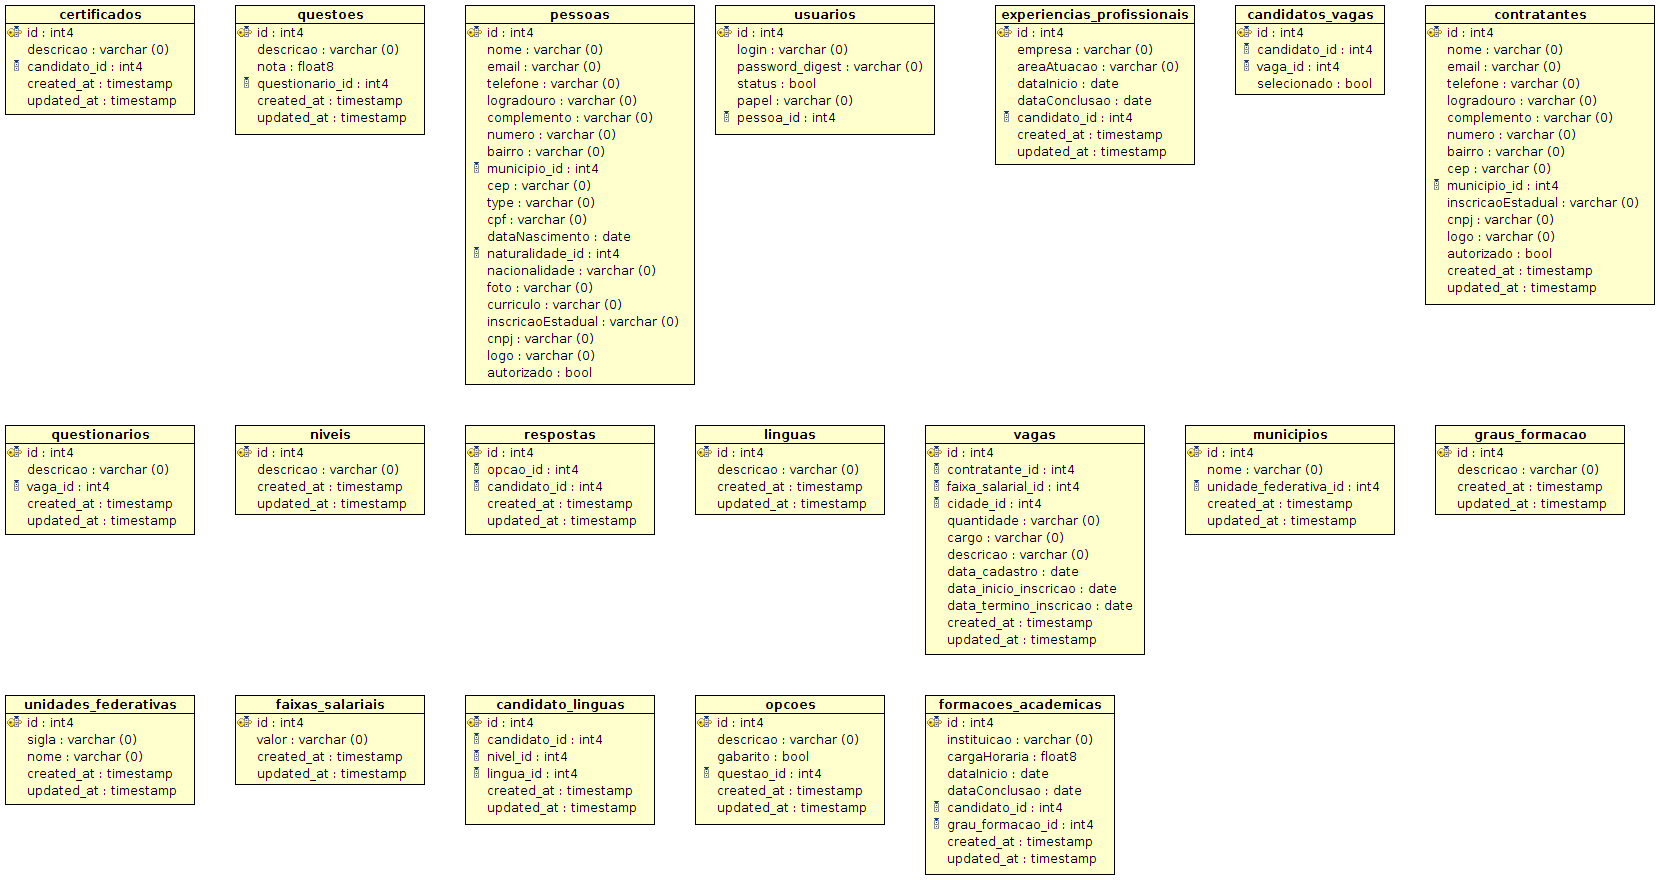
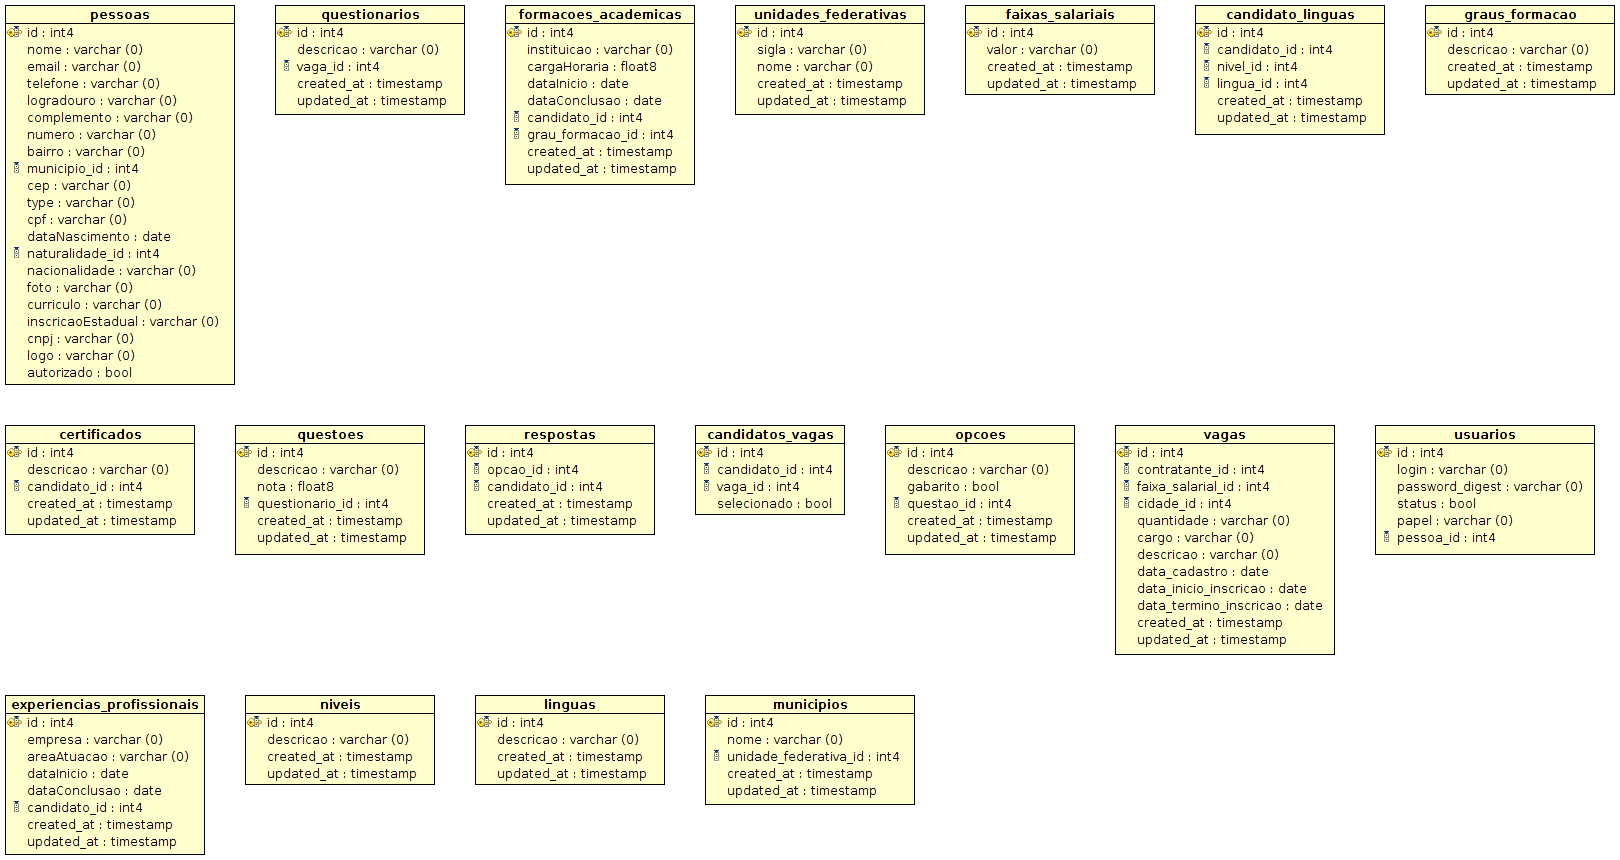
Limpar migrate

diff --git a/db/schema.rb b/db/schema.rb
@@ -45,26 +45,6 @@ ActiveRecord::Schema.define(version: 20150715032021) do
 
   add_index "certificados", ["candidato_id"], name: "index_certificados_on_candidato_id"
 
-  create_table "contratantes", force: :cascade do |t|
-    t.string   "nome"
-    t.string   "email"
-    t.string   "telefone"
-    t.string   "logradouro"
-    t.string   "complemento"
-    t.string   "numero"
-    t.string   "bairro"
-    t.string   "cep"
-    t.integer  "municipio_id"
-    t.string   "inscricaoEstadual"
-    t.string   "cnpj"
-    t.string   "logo"
-    t.boolean  "autorizado"
-    t.datetime "created_at",        null: false
-    t.datetime "updated_at",        null: false
-  end
-
-  add_index "contratantes", ["municipio_id"], name: "index_contratantes_on_municipio_id"
-
   create_table "experiencias_profissionais", force: :cascade do |t|
     t.string   "empresa",       null: false
     t.string   "areaAtuacao",   null: false
@@ -159,57 +139,6 @@ ActiveRecord::Schema.define(version: 20150715032021) do
 
   add_index "pessoas", ["municipio_id"], name: "index_pessoas_on_municipio_id"
   add_index "pessoas", ["naturalidade_id"], name: "index_pessoas_on_naturalidade_id"
-
-  create_table "pessoas_fisicas", force: :cascade do |t|
-    t.string   "cpf",             null: false
-    t.string   "nome",            null: false
-    t.string   "email",           null: false
-    t.string   "telefone",        null: false
-    t.string   "logradouro",      null: false
-    t.string   "complemento"
-    t.string   "numero",          null: false
-    t.string   "bairro",          null: false
-    t.integer  "municipio_id",    null: false
-    t.string   "cep",             null: false
-    t.date     "dataNascimento",  null: false
-    t.integer  "naturalidade_id", null: false
-    t.string   "nacionalidade",   null: false
-    t.string   "foto"
-    t.datetime "created_at",      null: false
-    t.datetime "updated_at",      null: false
-  end
-
-  add_index "pessoas_fisicas", ["municipio_id"], name: "index_pessoas_fisicas_on_municipio_id"
-  add_index "pessoas_fisicas", ["naturalidade_id"], name: "index_pessoas_fisicas_on_naturalidade_id"
-
-  create_table "pessoas_fisicas_vagas", force: :cascade do |t|
-    t.integer "pessoa_fisica_id", null: false
-    t.integer "vaga_id",          null: false
-  end
-
-  add_index "pessoas_fisicas_vagas", ["pessoa_fisica_id", "vaga_id"], name: "index_pessoas_fisicas_vagas_on_pessoa_fisica_id_and_vaga_id", unique: true
-  add_index "pessoas_fisicas_vagas", ["pessoa_fisica_id"], name: "index_pessoas_fisicas_vagas_on_pessoa_fisica_id"
-  add_index "pessoas_fisicas_vagas", ["vaga_id"], name: "index_pessoas_fisicas_vagas_on_vaga_id"
-
-  create_table "pessoas_juridicas", force: :cascade do |t|
-    t.string   "nome",              null: false
-    t.string   "email",             null: false
-    t.string   "telefone",          null: false
-    t.string   "logradouro",        null: false
-    t.string   "complemento"
-    t.string   "numero",            null: false
-    t.string   "cep",               null: false
-    t.string   "bairro",            null: false
-    t.integer  "municipio_id",      null: false
-    t.string   "inscricaoEstadual", null: false
-    t.string   "cnpj",              null: false
-    t.string   "logo"
-    t.boolean  "autorizado",        null: false
-    t.datetime "created_at",        null: false
-    t.datetime "updated_at",        null: false
-  end
-
-  add_index "pessoas_juridicas", ["municipio_id"], name: "index_pessoas_juridicas_on_municipio_id"
 
   create_table "questionarios", force: :cascade do |t|
     t.string   "descricao",  null: false

diff --git a/db/migrate/20150709211659_create_pessoas.rb b/db/migrate/20150709211659_create_pessoas.rb
@@ -28,7 +28,7 @@ class CreatePessoas < ActiveRecord::Migration
 	     t.string :inscricaoEstadual
        t.string :cnpj, null:true
        t.string :logo
-       t.boolean :autorizado
+       t.boolean :autorizado, default: false
 	    
 	   
     end
